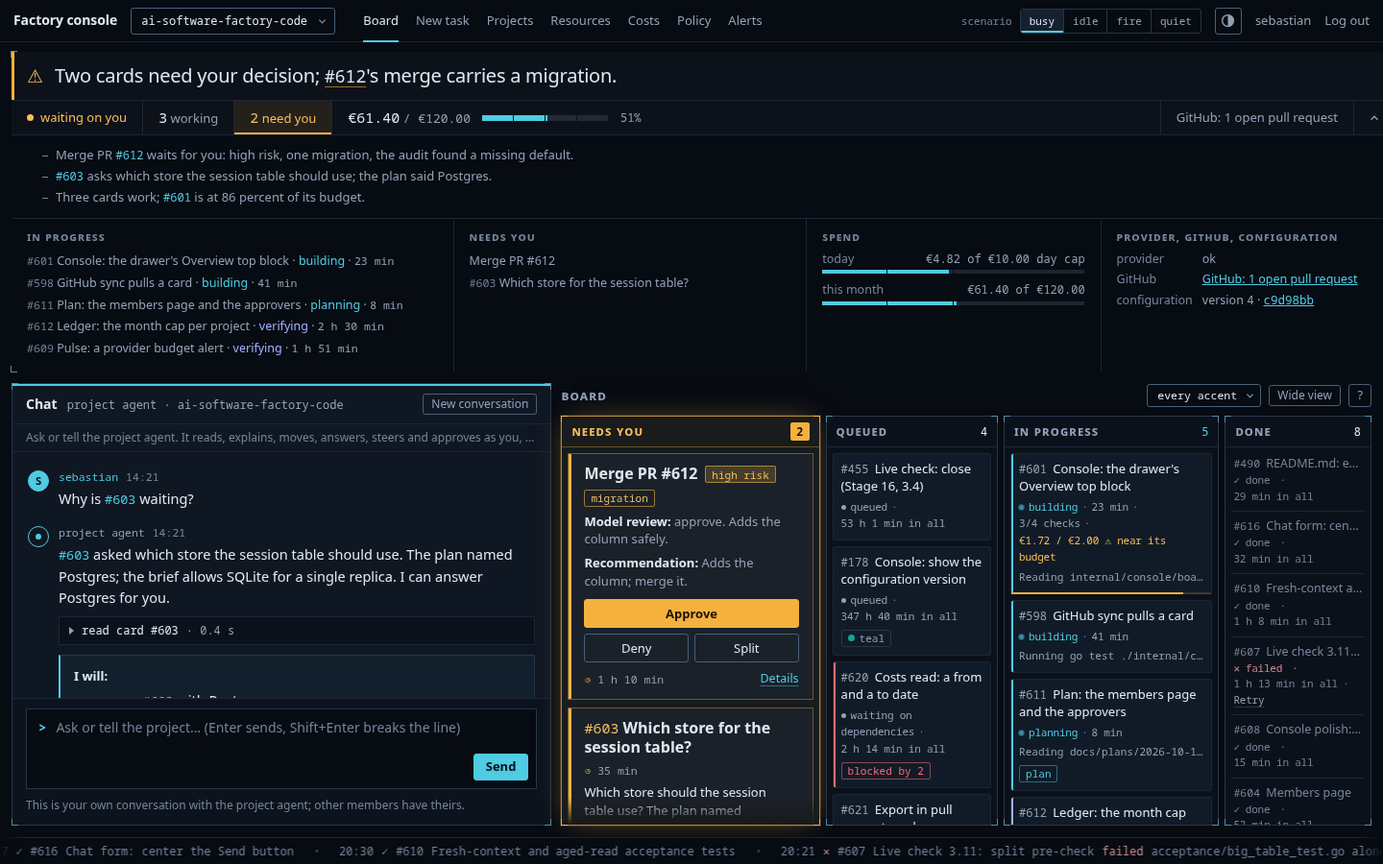
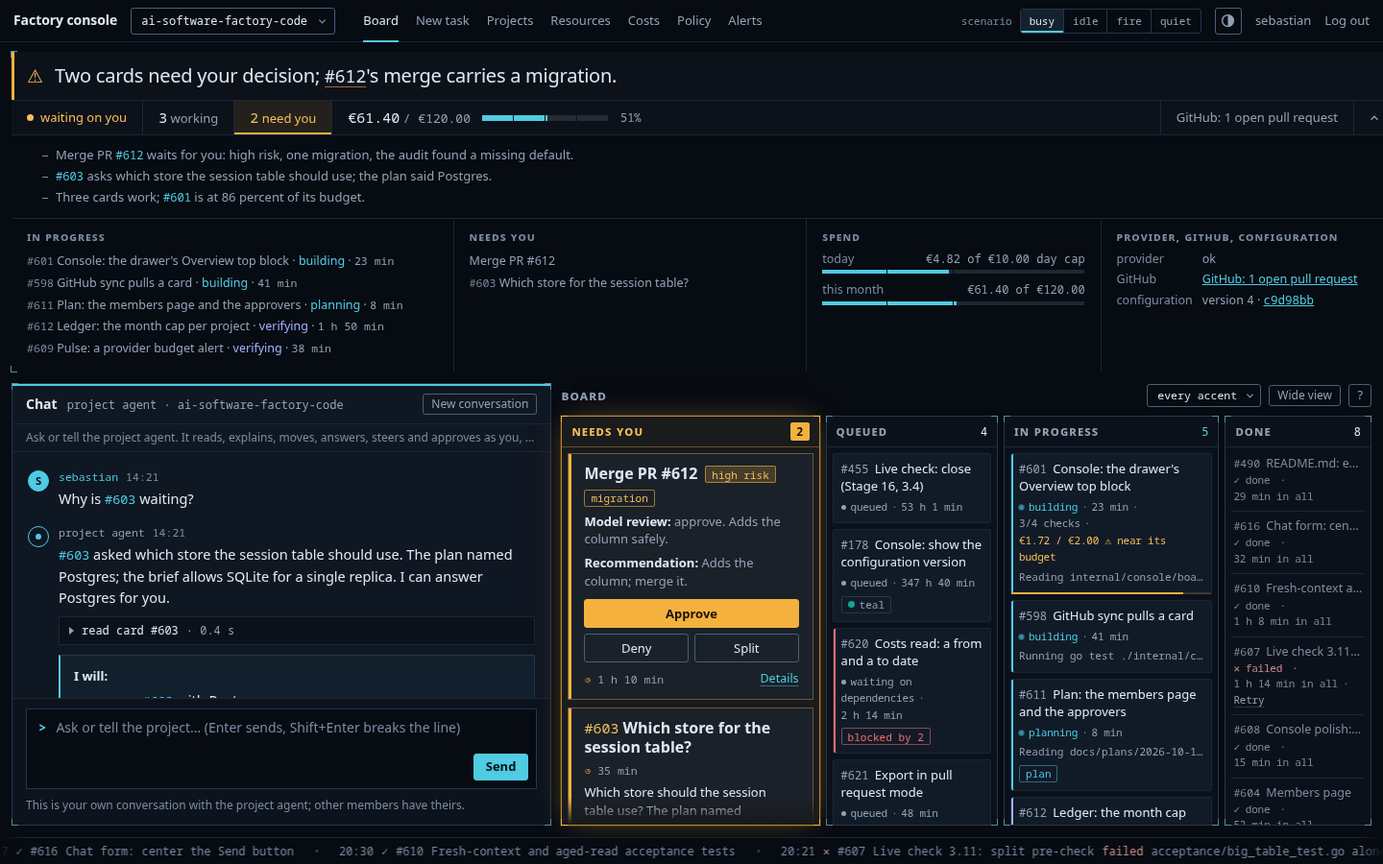
C10: the drawer's Time section tells how the card's life went; the prototype carries it
Sebastian's decision of 2026-10-14, relayed by the portfolio session: a collapsed Time section first in the drawer's Overview, its hint the at-a-glance line (factory time in n attempts, waiting time, spend), open one row per run of a stage with its start, duration, cost and the note that ended it; the card's time derives from the runs; no stage bars on the board. Applied to the prototype and its scenarios (22 cards carry runs, #612 the showcase), recorded in design-decisions.md, ia.md, inventory.md and the rule set, and folded into the plan's item 5 with its data. The prototype re-shot, with drawer-time shots in both themes. The plan's "Where it stands" also notes the speed round's items 1 and 2 landing on main.

Changed region(s): [[0.5938, 0.6222, 0.7188, 0.9644]]

diff --git a/design/prototypes/scenarios.js b/design/prototypes/scenarios.js
@@ -21,30 +21,30 @@ window.SCENARIOS = {
       { kind: "escalation", task: "t-7c1e55a2d9f0", issue: 603, title: "Which store for the session table?", since: "35 min",
         status: "waiting on a human", elapsed: "1 h 2 min in all", spent: 0.46, budget: 2.00, model: "coding-cheap",
         question: "Which store should the session table use? The plan named Postgres; the brief allows SQLite for a single replica.",
-        choices: ["Postgres", "SQLite", "Ask the author"], capped: false, alert: 31 }
+        choices: ["Postgres", "SQLite", "Ask the author"], capped: false, alert: 31, runs: [{k:'queued',m:1},{k:'building',m:26,eur:0.46,note:'attempt 1, coding-cheap'},{k:'waiting on you',m:35,note:'asked: which store for the session table?'}] }
     ],
     queued: [
-      { issue: 455, task: "t-4c2559f5cb07", title: "Live check: close (Stage 16, 3.4)", status: "queued", elapsed: "53 h 1 min in all", spent: 0, budget: 2, activity: "filed by sebastian via chat at 16:01, direct" },
-      { issue: 178, task: "t-9d2a71c0e4b3", title: "Console: show the configuration version", status: "queued", elapsed: "347 h 40 min in all", spent: 0, budget: 2, activity: "filed by controller via chat at 07:08, direct", accent: "teal" },
-      { issue: 620, task: "t-1f8e4b6a2c75", title: "Costs read: a from and a to date", status: "waiting on dependencies", elapsed: "2 h 14 min in all", spent: 0, budget: 2, blocked: 2, blockedOn: "#612, #609" },
-      { issue: 621, task: "t-5a3c9e1d7b40", title: "Export in pull request mode", status: "queued", elapsed: "48 min in all", spent: 0, budget: 2, fromPlan: 558 }
+      { issue: 455, task: "t-4c2559f5cb07", title: "Live check: close (Stage 16, 3.4)", status: "queued", elapsed: "53 h 1 min in all", spent: 0, budget: 2, activity: "filed by sebastian via chat at 16:01, direct", runs: [{k:'queued',m:3181}] },
+      { issue: 178, task: "t-9d2a71c0e4b3", title: "Console: show the configuration version", status: "queued", elapsed: "347 h 40 min in all", spent: 0, budget: 2, activity: "filed by controller via chat at 07:08, direct", accent: "teal", runs: [{k:'queued',m:20860}] },
+      { issue: 620, task: "t-1f8e4b6a2c75", title: "Costs read: a from and a to date", status: "waiting on dependencies", elapsed: "2 h 14 min in all", spent: 0, budget: 2, blocked: 2, blockedOn: "#612, #609", runs: [{k:'queued',m:134,note:'waits on #612, #609'}] },
+      { issue: 621, task: "t-5a3c9e1d7b40", title: "Export in pull request mode", status: "queued", elapsed: "48 min in all", spent: 0, budget: 2, fromPlan: 558, runs: [{k:'queued',m:48}] }
     ],
     inprogress: [
-      { issue: 601, task: "t-e02e56a2c488", title: "Console: the drawer's Overview top block", status: "running", stage: "building", track: "direct", elapsed: "23 min", checks: "3/4", spent: 1.72, budget: 2, near: true, model: "coding-cheap", activity: "Reading internal/console/board.go…" },
-      { issue: 598, task: "t-b8a1d5f1612a", title: "GitHub sync pulls a card", status: "running", stage: "building", track: "direct", elapsed: "41 min", spent: 0.63, budget: 2, model: "coding-frontier", activity: "Running go test ./internal/console" },
-      { issue: 611, task: "t-a4b58737c1bc", title: "Plan: the members page and the approvers", status: "running", stage: "planning", track: "plan", elapsed: "8 min", spent: 0.11, budget: 5, model: "coding-frontier", activity: "Reading docs/plans/2026-10-14-lane-collapse.md" },
-      { issue: 612, task: "t-0b7d3e9a4c21", title: "Ledger: the month cap per project", status: "in review", stage: "verifying", elapsed: "2 h 30 min", checks: "4/4", pr: 612, spent: 1.08, budget: 2, model: "coding-frontier", activity: "review by factoryd at 14:02: approve" },
-      { issue: 609, task: "t-3e7b2c9f5a18", title: "Pulse: a provider budget alert", status: "in review", stage: "verifying", gate: "merge queue", gateAge: "6 min", elapsed: "1 h 51 min", checks: "4/4", pr: 609, spent: 0.84, budget: 2, model: "coding-cheap", activity: "merge queue: behind #612" }
+      { issue: 601, task: "t-e02e56a2c488", title: "Console: the drawer's Overview top block", status: "running", stage: "building", track: "direct", elapsed: "23 min", checks: "3/4", spent: 1.72, budget: 2, near: true, model: "coding-cheap", activity: "Reading internal/console/board.go…", runs: [{k:'queued',m:1},{k:'building',m:23,eur:1.72,note:'attempt 1, coding-cheap'}] },
+      { issue: 598, task: "t-b8a1d5f1612a", title: "GitHub sync pulls a card", status: "running", stage: "building", track: "direct", elapsed: "41 min", spent: 0.63, budget: 2, model: "coding-frontier", activity: "Running go test ./internal/console", runs: [{k:'queued',m:2},{k:'building',m:41,eur:0.63,note:'attempt 1, coding-frontier'}] },
+      { issue: 611, task: "t-a4b58737c1bc", title: "Plan: the members page and the approvers", status: "running", stage: "planning", track: "plan", elapsed: "8 min", spent: 0.11, budget: 5, model: "coding-frontier", activity: "Reading docs/plans/2026-10-14-lane-collapse.md", runs: [{k:'queued',m:1},{k:'planning',m:8,eur:0.11,note:'attempt 1, coding-frontier'}] },
+      { issue: 612, task: "t-0b7d3e9a4c21", title: "Ledger: the month cap per project", status: "in review", stage: "verifying", elapsed: "2 h 30 min", checks: "4/4", pr: 612, spent: 1.08, budget: 2, model: "coding-frontier", activity: "review by factoryd at 14:02: approve", runs: [{k:'queued',m:1},{k:'building',m:38,eur:0.31,note:'attempt 1, coding-cheap'},{k:'verifying',m:12,note:'checks 2/4, go test ./acceptance failed'},{k:'building',m:32,eur:0.36,note:'attempt 2, coding-cheap · 18 min stalled on the provider, 429'},{k:'waiting on you',m:35,note:'asked: does the cap count open attempts?'},{k:'building',m:12,eur:0.41,note:'attempt 3, coding-frontier, stronger after 3'},{k:'verifying',m:40,note:'checks 4/4 · review by factoryd: approve'},{k:'waiting on you',m:70,note:'merge, rule human'}] },
+      { issue: 609, task: "t-3e7b2c9f5a18", title: "Pulse: a provider budget alert", status: "in review", stage: "verifying", gate: "merge queue", gateAge: "6 min", elapsed: "1 h 51 min", checks: "4/4", pr: 609, spent: 0.84, budget: 2, model: "coding-cheap", activity: "merge queue: behind #612", runs: [{k:'queued',m:3},{k:'building',m:70,eur:0.84,note:'attempt 1, coding-cheap'},{k:'verifying',m:38,note:'checks 4/4 · merge queue 6 min, behind #612'}] }
     ],
     done: [
-      { issue: 490, title: "README.md: extend the intro", status: "done", elapsed: "29 min in all", spent: 0.01, budget: 2, at: "15:32" },
-      { issue: 616, title: "Chat form: center the Send button", status: "done", elapsed: "32 min in all", spent: 0.01, budget: 2, at: "20:37" },
-      { issue: 610, title: "Fresh-context and aged-read acceptance tests", status: "done", elapsed: "1 h 8 min in all", spent: 0.18, budget: 2, at: "20:30" },
-      { issue: 607, title: "Live check 3.11: split pre-check", status: "failed", elapsed: "1 h 13 min in all", spent: 0.20, budget: 2, at: "20:21", reason: "acceptance/big_table_test.go alone changes 506 lines, over the bound 400" },
-      { issue: 608, title: "Console polish: clamp board chip objectives", status: "done", elapsed: "15 min in all", spent: 0.04, budget: 2, at: "19:30" },
-      { issue: 604, title: "Members page", status: "done", elapsed: "52 min in all", spent: 0.31, budget: 2, at: "18:12" },
-      { issue: 599, title: "Alerts: verdict buttons", status: "closed", elapsed: "3 h 2 min in all", spent: 0.09, budget: 2, at: "17:40" },
-      { issue: 597, title: "Timeline: the gates meter", status: "done", elapsed: "44 min in all", spent: 0.12, budget: 2, at: "16:55" }
+      { issue: 490, title: "README.md: extend the intro", status: "done", elapsed: "29 min in all", spent: 0.01, budget: 2, at: "15:32", runs: [{k:'queued',m:1},{k:'building',m:20,eur:0.01,note:'attempt 1, coding-cheap'},{k:'verifying',m:8,note:'checks 4/4 · merged'}] },
+      { issue: 616, title: "Chat form: center the Send button", status: "done", elapsed: "32 min in all", spent: 0.01, budget: 2, at: "20:37", runs: [{k:'queued',m:2},{k:'building',m:22,eur:0.01,note:'attempt 1, coding-cheap'},{k:'verifying',m:8,note:'checks 4/4 · merged'}] },
+      { issue: 610, title: "Fresh-context and aged-read acceptance tests", status: "done", elapsed: "1 h 8 min in all", spent: 0.18, budget: 2, at: "20:30", runs: [{k:'queued',m:1},{k:'building',m:48,eur:0.18,note:'attempt 1, coding-cheap'},{k:'verifying',m:12,note:'checks 4/4 · review by factoryd: approve'},{k:'waiting on you',m:7,note:'merge, rule human'}] },
+      { issue: 607, title: "Live check 3.11: split pre-check", status: "failed", elapsed: "1 h 13 min in all", spent: 0.20, budget: 2, at: "20:21", reason: "acceptance/big_table_test.go alone changes 506 lines, over the bound 400", runs: [{k:'queued',m:1},{k:'building',m:60,eur:0.20,note:'attempt 1, coding-cheap'},{k:'verifying',m:13,note:'pre-check failed: acceptance/big_table_test.go alone changes 506 lines, over the bound 400'}] },
+      { issue: 608, title: "Console polish: clamp board chip objectives", status: "done", elapsed: "15 min in all", spent: 0.04, budget: 2, at: "19:30", runs: [{k:'queued',m:1},{k:'building',m:9,eur:0.04,note:'attempt 1, coding-cheap'},{k:'verifying',m:5,note:'checks 4/4 · merged'}] },
+      { issue: 604, title: "Members page", status: "done", elapsed: "52 min in all", spent: 0.31, budget: 2, at: "18:12", runs: [{k:'queued',m:4},{k:'building',m:36,eur:0.31,note:'attempt 1, coding-frontier'},{k:'verifying',m:12,note:'checks 4/4 · merged'}] },
+      { issue: 599, title: "Alerts: verdict buttons", status: "closed", elapsed: "3 h 2 min in all", spent: 0.09, budget: 2, at: "17:40", runs: [{k:'queued',m:180},{k:'waiting on you',m:2,note:'closed by sebastian'}] },
+      { issue: 597, title: "Timeline: the gates meter", status: "done", elapsed: "44 min in all", spent: 0.12, budget: 2, at: "16:55", runs: [{k:'queued',m:1},{k:'building',m:30,eur:0.12,note:'attempt 1, coding-cheap'},{k:'verifying',m:13,note:'checks 4/4 · merged'}] }
     ],
     chat: [
       { who: "you", at: "14:21", text: "Why is #603 waiting?" },
@@ -119,10 +119,10 @@ window.SCENARIOS = {
       { issue: 540, task: "t-7788aa11bb22", title: "A capped verification card closes on attested evidence", status: "queued", elapsed: "12 min in all", spent: 0, budget: 2 }
     ],
     inprogress: [
-      { issue: 531, task: "t-0f1e2d3c4b5a", title: "Console: the Close action's live check", status: "running", stage: "building", elapsed: "1 h 48 min", spent: 0.41, budget: 2, model: "coding-cheap", activity: "Running bash check", stale: true, staleText: "nothing for 40 min" },
-      { issue: 516, task: "t-9988776655aa", title: "Pulse: the provider budget margin", status: "running", stage: "building", elapsed: "2 h 2 min", spent: 1.95, budget: 2, near: true, model: "coding-frontier", provider: true, activity: "waiting on the model provider since 13:22 (429 budget exhausted)" },
-      { issue: 537, task: "t-5544332211bb", title: "Members: the approver list", status: "running", stage: "building", elapsed: "1 h 15 min", spent: 0.22, budget: 2, model: "coding-cheap", provider: true, activity: "waiting on the model provider since 13:24" },
-      { issue: 612, task: "t-0b7d3e9a4c21", title: "Ledger: the month cap per project", status: "in review", stage: "verifying", elapsed: "2 h 30 min", checks: "2/4", pr: 612, spent: 1.08, budget: 2, model: "coding-frontier", activity: "checks: go test ./acceptance failed" }
+      { issue: 531, task: "t-0f1e2d3c4b5a", title: "Console: the Close action's live check", status: "running", stage: "building", elapsed: "1 h 48 min", spent: 0.41, budget: 2, model: "coding-cheap", activity: "Running bash check", stale: true, staleText: "nothing for 40 min", runs: [{k:'queued',m:2},{k:'building',m:108,eur:0.41,note:'attempt 1, coding-cheap · nothing for 40 min'}] },
+      { issue: 516, task: "t-9988776655aa", title: "Pulse: the provider budget margin", status: "running", stage: "building", elapsed: "2 h 2 min", spent: 1.95, budget: 2, near: true, model: "coding-frontier", provider: true, activity: "waiting on the model provider since 13:22 (429 budget exhausted)", runs: [{k:'queued',m:1},{k:'building',m:122,eur:1.95,note:'attempt 1, coding-frontier · waiting on the provider since 13:22, 429 budget exhausted'}] },
+      { issue: 537, task: "t-5544332211bb", title: "Members: the approver list", status: "running", stage: "building", elapsed: "1 h 15 min", spent: 0.22, budget: 2, model: "coding-cheap", provider: true, activity: "waiting on the model provider since 13:24", runs: [{k:'queued',m:1},{k:'building',m:75,eur:0.22,note:'attempt 1, coding-cheap · waiting on the provider since 13:24'}] },
+      { issue: 612, task: "t-0b7d3e9a4c21", title: "Ledger: the month cap per project", status: "in review", stage: "verifying", elapsed: "2 h 30 min", checks: "2/4", pr: 612, spent: 1.08, budget: 2, model: "coding-frontier", activity: "checks: go test ./acceptance failed", runs: [{k:'queued',m:1},{k:'building',m:38,eur:0.31,note:'attempt 1, coding-cheap'},{k:'verifying',m:12,note:'checks 2/4, go test ./acceptance failed'},{k:'building',m:32,eur:0.36,note:'attempt 2, coding-cheap'},{k:'verifying',m:40,note:'checks 2/4, go test ./acceptance failed again'}] }
     ],
     done: [
       { issue: 607, title: "Live check 3.11: split pre-check", status: "failed", elapsed: "1 h 13 min in all", spent: 0.20, budget: 2, at: "20:21", reason: "acceptance/big_table_test.go alone changes 506 lines, over the bound 400" },

diff --git a/design/prototypes/06-mission-control/index.html b/design/prototypes/06-mission-control/index.html
@@ -436,6 +436,20 @@ a.cell.needs.on:hover { background: color-mix(in srgb, var(--need) 16%, transpar
 .sec-body { padding: 0 0 16px 15px; font-size: 13px; line-height: 1.55; }
 .sec-body p { margin: 0 0 8px; }
 .sec-body .prov { color: var(--text-muted); font: 12px var(--font-mono); }
+.sec[data-sec="time"] > summary .hint { color: var(--text-muted); }
+.sec[data-sec="time"] > summary { height: auto; min-height: 38px; flex-wrap: wrap; }
+.sec[data-sec="time"] > summary .hint { color: var(--text-muted); text-align: right; }
+.life { display: grid; grid-template-columns: auto auto auto auto 1fr; column-gap: 12px; row-gap: 3px; margin-top: 4px; font-size: 12.5px; line-height: 1.45; align-items: baseline; }
+.life .mono { font: 12px var(--font-mono); color: var(--text-muted); white-space: nowrap; }
+.life .num { text-align: right; }
+.life .k { font-weight: 600; white-space: nowrap; }
+.life .note { color: var(--text-muted); }
+@media (max-width: 720px) {
+  .life { grid-template-columns: auto auto auto auto; row-gap: 1px; }
+  .life .note { grid-column: 1 / -1; margin: 0 0 8px; }
+  .life .note:empty { margin: 0; }
+}
+
 .facts { display: grid; grid-template-columns: 150px minmax(0, 1fr); gap: 6px 14px; margin: 0 0 12px; }
 .facts dt { color: var(--text-muted); font-size: 12.5px; }
 .facts dd { margin: 0; overflow-wrap: anywhere; }
@@ -718,7 +732,7 @@ kbd { display: inline-block; min-width: 22px; padding: 1px 6px; border: 1px soli
     var since = d.inprogress.filter(function (c) { return c.provider; }).map(function (c) { return (/since (\d\d:\d\d)/.exec(c.activity) || [])[1]; }).filter(Boolean).sort()[0];
     var working = d.inprogress.length ? '<ul>' + d.inprogress.map(function (c) {
       return '<li><button type="button" class="sp-link" data-open="' + c.issue + '"><span class="ref-plain">#' + c.issue + '</span> ' + esc(c.title) +
-        ' · <span class="s-' + hueOf(c.status) + '">' + esc(c.stage || c.status) + '</span> · <span class="mono">' + esc(c.elapsed) + '</span></button></li>'; }).join('') + '</ul>' : none;
+        ' · <span class="s-' + hueOf(c.status) + '">' + esc(c.stage || c.status) + '</span> · <span class="mono">' + esc(elapsedOf(c)) + '</span></button></li>'; }).join('') + '</ul>' : none;
     var needs = d.needs.length ? '<ul>' + d.needs.map(function (n) {
       return '<li><button type="button" class="sp-link" data-goto="' + n.issue + '">' + (n.kind === 'merge' ? 'Merge PR #' + n.pr : '<span class="ref-plain">#' + n.issue + '</span> ' + esc(n.title)) + '</button></li>'; }).join('') + '</ul>' : none;
     var spend = gaugeRow('today', d.spendToday, d.dayCap, ' day cap') + gaugeRow('this month', d.spend, d.cap, '') +
@@ -829,9 +843,40 @@ kbd { display: inline-block; min-width: 22px; padding: 1px 6px; border: 1px soli
 
   /* board: a card face */
   function confirmOr(key, html) { return st.done[key] ? '<p class="confirm" role="status">' + esc(st.done[key]) + '</p>' : html; }
+  /* the card's life: one run per stage it went through, the card's time derived from them */
+  var NOW = '15:32', RUN_HUE = { queued: 'idle', building: 'running', planning: 'running', verifying: 'review', 'waiting on you': 'waiting' };
+  function mins(m) { return m >= 60 ? Math.floor(m / 60) + ' h' + (m % 60 ? ' ' + m % 60 + ' min' : '') : m + ' min'; }
+  function hhmm(m) { m = ((m % 1440) + 1440) % 1440; return (m < 600 ? '0' : '') + Math.floor(m / 60) + ':' + (m % 60 < 10 ? '0' : '') + m % 60; }
+  function toMin(t) { var p = t.split(':'); return +p[0] * 60 + +p[1]; }
+  function sumRuns(c, f) { return c.runs.reduce(function (a, r) { return a + (f(r) ? r.m : 0); }, 0); }
+  function elapsedOf(c) {
+    if (!c.runs) return c.elapsed || '';
+    if (/^(done|failed|closed)$/.test(c.status)) return mins(sumRuns(c, function () { return true; })) + ' in all';
+    var k = c.stage || c.status, i = c.runs.length - 1;
+    while (i > 0 && c.runs[i].k !== k) i--;
+    return mins(c.runs.slice(i).reduce(function (a, r) { return a + r.m; }, 0));
+  }
+  function timeLine(c) {
+    var factory = sumRuns(c, function (r) { return RUN_HUE[r.k] === 'running' || RUN_HUE[r.k] === 'review'; }),
+        waiting = sumRuns(c, function (r) { return RUN_HUE[r.k] !== 'running' && RUN_HUE[r.k] !== 'review'; }),
+        n = c.runs.filter(function (r) { return RUN_HUE[r.k] === 'running'; }).length, parts = [];
+    if (n) parts.push(mins(factory) + ' factory in ' + n + ' attempt' + (n > 1 ? 's' : ''));
+    if (waiting) parts.push(mins(waiting) + ' waiting');
+    if (c.spent) parts.push(eur(c.spent));
+    return parts.join(' · ');
+  }
+  function timeTable(c) {
+    if (!c.runs) return '';
+    var t = toMin(c.at || NOW) - sumRuns(c, function () { return true; });
+    return '<div class="life">' + c.runs.map(function (r) {
+      var row = '<span class="mono">' + hhmm(t) + '</span><span class="k s-' + RUN_HUE[r.k] + '">' + esc(r.k) + '</span><span class="mono num">' + mins(r.m) + '</span>' +
+        '<span class="mono num">' + (r.eur != null ? eur(r.eur) : '') + '</span><span class="note">' + refs(r.note || '') + '</span>';
+      t += r.m; return row;
+    }).join('') + '</div>';
+  }
   function stateRow(c, col) {
     var hue = hueOf(c.status), r = '<span class="st s-' + hue + '"><i class="dot" aria-hidden="true"></i>' + esc(c.stage || c.status) + '</span>';
-    if (c.elapsed) r += '<span>' + esc(c.elapsed) + '</span>';
+    if (elapsedOf(c)) r += '<span>' + esc(elapsedOf(c)) + '</span>';
     if (c.checks) r += '<span>' + esc(c.checks) + ' checks</span>';
     if (isNear(c)) r += '<span class="warn">' + eur(c.spent) + ' / ' + eur(c.budget) + ' ⚠ near its budget</span>';
     if (c.gate) r += '<span class="warn">' + esc(c.gate) + ' ' + esc(c.gateAge) + '</span>';
@@ -862,7 +907,7 @@ kbd { display: inline-block; min-width: 22px; padding: 1px 6px; border: 1px soli
     var g = { done: '✓', failed: '✕', closed: '⊘' }[c.status] || '·', key = 'card-' + c.issue;
     return '<article class="drow d-' + esc(c.status).replace(/ /g, '-') + '" data-card="' + c.issue + '">' +
       '<button type="button" class="open" data-open="' + c.issue + '"' + (c.reason ? ' title="' + esc(c.reason) + '"' : '') + '><span class="clamp1"><span class="ref">#' + c.issue + '</span> <span class="ttl">' + esc(c.title) + '</span></span></button>' +
-      '<p class="dmeta"><span class="st"><span class="g" aria-hidden="true">' + g + '</span>' + esc(c.status) + '</span><span>' + esc(c.elapsed) + '</span>' +
+      '<p class="dmeta"><span class="st"><span class="g" aria-hidden="true">' + g + '</span>' + esc(c.status) + '</span><span>' + esc(elapsedOf(c)) + '</span>' +
       (c.status === 'failed' ? (st.done[key] ? '<span class="confirm">' + esc(st.done[key]) + '</span>' : '<button type="button" class="textlink" data-act="retry" data-key="' + key + '">Retry</button>') : '') +
       '</p></article>';
   }
@@ -994,7 +1039,7 @@ kbd { display: inline-block; min-width: 22px; padding: 1px 6px; border: 1px soli
     var d = D(), full = d.drawer && d.drawer.card.issue === c.issue ? d.drawer : null, ov = full && full.overview;
     var hue = hueOf(c.status), near = isNear(c), tab = st.drawer.tab, n = c.need;
     var facts = '<span class="st s-' + hue + '"><i class="dot" aria-hidden="true"></i>' + esc(c.stage || c.status) + '</span>' +
-      (c.elapsed ? '<span class="sep"></span><span>' + esc(c.elapsed) + '</span>' : '') +
+      (elapsedOf(c) ? '<span class="sep"></span><span>' + esc(elapsedOf(c)) + '</span>' : '') +
       (c.checks ? '<span class="sep"></span><span>' + esc(c.checks) + ' checks</span>' : '') +
       (c.budget ? '<span class="sep"></span><span class="' + (near ? 'warn' : '') + '">' + eur(c.spent) + ' / ' + eur(c.budget) + (near ? ' ⚠ near its budget' : '') + '</span>' : '') +
       (c.track === 'plan' ? '<span class="chip track">plan</span>' : '') +
@@ -1007,7 +1052,7 @@ kbd { display: inline-block; min-width: 22px; padding: 1px 6px; border: 1px soli
       var pct = c.budget ? Math.round(c.spent / c.budget * 100) : 0;
       body += '<dl class="top-block">' +
         '<dt>Task</dt><dd>' + refs(ov ? ov.task : c.title) + '</dd>' +
-        '<dt>Status</dt><dd>' + esc(ov ? ov.status : (c.stage || c.status) + (c.elapsed ? ', ' + c.elapsed : '')) + '</dd>' +
+        '<dt>Status</dt><dd>' + esc(ov ? ov.status : (c.stage || c.status) + (elapsedOf(c) ? ', ' + elapsedOf(c) : '')) + '</dd>' +
         '<dt>Budget</dt><dd class="' + (near ? 'warn' : 'muted') + '"><span class="mono">' + esc(ov ? ov.budget : eur(c.spent) + ' of ' + eur(c.budget) + ', ' + pct + ' percent') + '</span>' + (near ? ' ⚠' : '') + '</dd>' +
         '<dt>Agent</dt><dd class="muted"><span class="mono">' + esc(ov ? ov.agent : (c.model || '—')) + '</span></dd></dl>';
       var open = '';
@@ -1025,7 +1070,8 @@ kbd { display: inline-block; min-width: 22px; padding: 1px 6px; border: 1px soli
         '<form class="edit" data-edit="accent"><div class="row"><span class="sel sm"><select aria-label="Accent colour (never a state\'s colour, never in an agent\'s brief)"><option value="">none</option>' +
         ACCENTS.map(function (a) { return '<option' + (a === c.accent ? ' selected' : '') + '>' + a + '</option>'; }).join('') + '</select></span><button type="submit" class="btn btn-xs">Set accent</button></div></form>';
       var links = '<div class="links"><a href="#">issue #' + c.issue + '</a>' + (c.pr ? '<a href="#">PR #' + c.pr + '</a>' : '') + '<a href="#">the full timeline</a>' + (c.task ? '<span class="ref-plain">' + esc(c.task) + '</span>' : '') + '</div>';
-      body += sec('objective', 'Objective', ov ? '<p>' + refs(ov.objective) + '</p><p class="prov">' + esc(ov.provenance) + '</p>' : '') +
+      body += sec('time', 'Time', timeTable(c), c.runs ? timeLine(c) : '', st.drawer.sec === 'time') +
+        sec('objective', 'Objective', ov ? '<p>' + refs(ov.objective) + '</p><p class="prov">' + esc(ov.provenance) + '</p>' : '') +
         sec('summary', "The agent's summary", ov ? '<p>' + refs(ov.summary) + '</p>' : '') +
         sec('plan', 'The plan', c.fromPlan ? '<p>from plan <span class="ref-plain">#' + c.fromPlan + '</span></p>' : '') +
         sec('reviews', 'Reviews and audit', n && n.kind === 'merge' ? mergeFacts(n) : '', n && n.kind === 'merge' ? 'PR #' + n.pr : '', st.drawer.sec === 'reviews') +

diff --git a/docs/plans/2026-10-14-console-design.md b/docs/plans/2026-10-14-console-design.md
@@ -22,7 +22,7 @@ Sebastian's pick of 2026-10-14 from the console design round ([design/](../../de
 2. **The shell.** `layout.html`: the top bar as one quiet row (the home word, the project select that submits on change, the page links, theme, user, Log out; the filter row's Show button goes). `page.html`: the pulse band with the sentence and "more", then the status figures row as a disclosure that expands in place (the working cards by name and stage, the cards that need you, the spend today against the day cap and the month against its cap as two gauges, the provider state, the GitHub pull requests); the chat on the left at 40 percent, the board on the right; the Board/Chat tabs go; under 900 px one column, the chat first, the board as stacked sections with Needs you open and Done folded. `console.js`: the pane tabs go, the disclosure and the keys stay, the drawer docks at the right edge over the board only (`right: 0`, the chat never covered). The ticker along the foot reads the project's last events from the feed the stream already carries, pauses on hover and under reduced motion.
 3. **The board.** `board.html`: the five status columns only, Needs you first with the amber frame, tint, corner marks and halo, 1.5 times the others' width, its items stacked; the lane columns, the move forms, the start-plan and the accept-plan forms go (this part lands in item 225's round, the buttons do not survive an interim); the card face per ia.md (the state row with the stage from the session kind, the activity line only on working and waiting cards, chips only when exceptional, Retry and Close as quiet buttons, the "More" fold gone, its content in the drawer); the whole card opens the drawer (226), the title keeps the link for assistive tech; Done rows in the faint token, no icons; the live dot on working and in-review cards (C6). The wide view is the same five columns at full width with the chat hidden.
 4. **Needs you items.** The merge approval (headline with the risk and migration chips, the review line, the recommendation line, Approve, Deny with its reason disclosure, Split for a large PR, Details into the drawer's Reviews and audit), the question (the headline, the choices, "Or in your words", the verdict links for approvers), the capped card (the answer box open, "Grant one session with this answer"), the resource request, the human task. "Approve as you" is "Approve" (C7).
-5. **The drawer.** `drawer.html`: the header (ref, title, the state dot and word, elapsed, the PR and issue links), the tabs Overview, Chat, Activity, Files; Overview with the four-line top block (task, status, budget, agent), the open need with its actions, then the collapsed sections (Objective, The agent's summary, The plan, Reviews and audit, Related cards, Edit, Links); the summary and accent forms move here from the face.
+5. **The drawer.** `drawer.html`: the header (ref, title, the state dot and word, elapsed, the PR and issue links), the tabs Overview, Chat, Activity, Files; Overview with the four-line top block (task, status, budget, agent), the open need with its actions, then the collapsed sections (Time, Objective, The agent's summary, The plan, Reviews and audit, Related cards, Edit, Links); the summary and accent forms move here from the face. The Time section (C10) is one row per run of a stage the card went through, in order: the start time, the stage word in its hue, the duration, the cost of a building or planning run, and the note that ended or marked it (a check result, a review verdict, an escalation's question, the merge rule, the attempt with its model and the rule that raised it, a stall on the provider); its hint is the at-a-glance line (the factory time in n attempts, the waiting time, the spend). Its data is what the factory records today: the status history from the events table, the attempts with model and outcome and the check results from the timeline, the escalations from the intake events. The card's time on the face and in the drawer's head derives from the same runs.
 6. **The chat.** `chat.html` and `chat.js`: the turn as an avatar (a cyan ring with a dot for the agent, a filled circle with the initial for the member), the name and the time on one line above the text, the text at full width; the tool block collapsed with the name and the duration; the proposal card with Do it and Skip; the applied line with undo; the composer with the prompt mark; the start line at the top of the log. The drawer's Chat tab uses the same turn.
 7. **New task.** `new.html`: Track (direct or plan, direct the default) replaces Lane (225).
 8. **The secondary pages.** Costs, Resources, Projects, Alerts, Policy, Timeline, New project: the shell and the tokens apply, the tables take the theme's rules, no structural change.
@@ -53,6 +53,8 @@ Two decisions reached the round after the handover was written:
 
 - **C8, four columns (Sebastian, 2026-10-14, relayed by the portfolio session).** Working and Verifying merge into "In progress". The stage word with its own dot (planning, building, verifying) shows on the card, and the time on the card is the time in the current stage. The mapping: Needs you holds waiting-human and the human tasks, Queued holds queued and waiting-deps, In progress holds running, closing and in-review, Done holds done, failed and closed. Ruling 255's five titles become four. This round applies it in the design files, the prototype and the console. The report measures the merge queue's wait: if it still takes tens of minutes after the speed round, a Verifying column comes back.
 - **C9, the configuration version (the controller, 2026-10-14).** Step 0.1 above.
+- **C10, the Time section in the drawer (Sebastian, 2026-10-14, relayed by the portfolio session).** Item 5 carries it: the section, its data and the card's time derived from the runs. No stage bars on the board.
+- **The speed round started in another session:** its items 1 (a roll takes no turn in the merge queue, 60b47d4) and 2 (sessions survive a factoryd restart, no roll gap, 928a351) landed on `main` on 2026-10-14 while this round ran.
 
 The round's pull requests, in order: the lab, the board page's figures (today's spend and the day cap, the GitHub remote, the plan flag), the structural check, then items 1, 2, 5, 6, 3, 4, 7, 8. The structural check lands with the prerequisites and tests the design's mechanics, so it is red on the mechanics an item has not built yet. Each pull request names the lines still red. From item 2 on it is green.
 

diff --git a/design/design-decisions.md b/design/design-decisions.md
@@ -39,3 +39,11 @@ Why: the work-in-progress bound counts slots, not columns (`CountAdmitted` count
 ## C9. The configuration version sits in the expanded status panel (2026-10-14, the controller)
 
 Item 221 put the configuration version and its infra commit under the pulse as a line of its own. In the design it is a row of the status panel's fourth column (provider, GitHub, configuration), linked to the configuration tree, because the top bar's right end already holds the theme, the user and Log out, and the figure is read rarely. The face of the page stays quiet.
+
+## C10. A Time section in the drawer tells how the card's life went; no stage bars on the board (2026-10-14, Sebastian)
+
+When a card looks wrong, Sebastian opens it and wants to see at a glance how its life went and what to change so the next cards go better. Proportional bars on the board were tried and dropped: a night waiting on a human skews them, and he does not want figures on every look at the board. The board stays as it is.
+
+The section: a collapsed "Time" disclosure, first in the drawer's Overview list above Objective. Its hint at the right of the summary row is the at-a-glance line, "2 h 14 min factory in 3 attempts · 1 h 46 min waiting · €1.08": factory is building, planning and verifying, attempts the count of building and planning runs, waiting is queued and waiting on you, and a part that is zero is left out. The hint is in the muted text colour and wraps on the phone. Open, one row per run of a stage, in order: the start time in mono, the stage word in its hue in bold, the duration right aligned, the cost on a building or planning row, and the note that ended or marked the run ("checks 2/4, go test ./acceptance failed", "review by factoryd: approve", "asked: …", "merge, rule human", "attempt 3, coding-frontier, stronger after 3", "18 min stalled on the provider, 429"). Where the factory applied a rule, the note names it. A stall is a note inside the building row, not a row, because the card's state did not change. Below 720 px the note takes its own line under the row.
+
+The time on the card and in the drawer's head derives from the runs: an active card shows the time since the last run of its current stage began, a done, failed or closed card the sum of all runs "in all" (C8's rule, now with its source). The data comes from what the factory records today: the status history, the attempts with their model and outcome, the check results, the escalations. A later roadmap item, not part of this decision: per-project medians over the last done cards, beside Costs, built on the same rows.

diff --git a/design/themes/06-mission-control/DESIGN.md b/design/themes/06-mission-control/DESIGN.md
@@ -98,7 +98,7 @@ The first column of the board, and the loudest thing on the screen: the only pla
 
 ## The drawer
 
-The raised panel with a cyan left edge and a deep shadow to its left, slides in 160 ms. Header: the ref as the issue link in cyan mono (the card's only issue link), the title at 16 px, ×; the facts row in mono (the stage or state, elapsed, checks, spend, "plan" on a plan-track card, model, PR). Tabs Overview, Chat, Activity, Files, Files last (226), as a mono strip with a cyan underline; Chat is the default on a running card. Overview: the top block as a four-row definition list (Task, Status, Budget, Agent; budget amber with ⚠ from 80 percent, muted under), then the open need with its actions, then the collapsed sections Objective, The agent's summary, The plan, Reviews and audit, Related cards, Edit, Links. Activity: the gates table with a meter against the longest gate, the steps table. Files: added in green, deleted in red, mono.
+The raised panel with a cyan left edge and a deep shadow to its left, slides in 160 ms. Header: the ref as the issue link in cyan mono (the card's only issue link), the title at 16 px, ×; the facts row in mono (the stage or state, elapsed, checks, spend, "plan" on a plan-track card, model, PR). Tabs Overview, Chat, Activity, Files, Files last (226), as a mono strip with a cyan underline; Chat is the default on a running card. Overview: the top block as a four-row definition list (Task, Status, Budget, Agent; budget amber with ⚠ from 80 percent, muted under), then the open need with its actions, then the collapsed sections Time (C10: the at-a-glance line as the hint in the muted colour, open a grid of start time in mono, the stage word in its hue in bold, the duration and the cost right aligned, the note; below 720 px the note on its own line), Objective, The agent's summary, The plan, Reviews and audit, Related cards, Edit, Links. Activity: the gates table with a meter against the longest gate, the steps table. Files: added in green, deleted in red, mono.
 
 ## The phone
 

diff --git a/design/inventory.md b/design/inventory.md
@@ -39,7 +39,7 @@ Read off the templates in `internal/console/templates/` on 2026-10-13 (code comm
 
 - Close (Escape). Title with issue link. Facts: status pill, lane badge, fine pills, model chip, spend / budget, PR link.
 - Tabs: Overview, Chat, Activity, Files, Files last (226); Chat is the default on a running card.
-- Overview: headline; provenance; objective body; the agent's summary; the plan (summary, cards table); reviews and audit of PR #n (merge facts, Split); related cards (why, pill, title, opens its drawer); issue and full timeline links.
+- Overview: headline; provenance; objective body; the agent's summary; the plan (summary, cards table); reviews and audit of PR #n (merge facts, Split); related cards (why, pill, title, opens its drawer); issue and full timeline links; the Time section (C10): one row per run of a stage (start, stage, duration, cost, note), the at-a-glance line as its hint.
 - Activity: gates table (gate, attempt, start, duration, outcome, meter against the longest); steps table (time, step, supervisor action and diagnosis, detail).
 - Chat: "Session n · model · outcome"; messages (who, time, text); steer form while running.
 - Files: the changed files of PR #n (file, change, added, deleted), "no pull request yet".

diff --git a/design/ia.md b/design/ia.md
@@ -67,7 +67,7 @@ Overview, top to bottom:
 
 1. The top block, four lines: Task (the objective's first sentence), Status (the state and the time in it), Budget (spend of budget and the percent, muted under 80 percent), Agent (the model alias, muted).
 2. Open: the one thing that needs the member, if any (the question with its choices, the review's open findings, a failing check, a refusal), with its actions.
-3. Collapsed sections, in this order: Objective (the full text with provenance), The agent's summary, The plan (summary and the cards table), Reviews and audit (the merge facts and Split), Related cards, Edit (the summary and accent forms, writers only), Links (issue, PR, timeline).
+3. Collapsed sections, in this order: Time (how the card's life went: one row per run of a stage with its start, duration, cost and the note that ended it, the at-a-glance line as the section's hint; C10), Objective (the full text with provenance), The agent's summary, The plan (summary and the cards table), Reviews and audit (the merge facts and Split), Related cards, Edit (the summary and accent forms, writers only), Links (issue, PR, timeline).
 
 Activity and Files stay as they are. Chat stays as it is, with the steer box.
 
